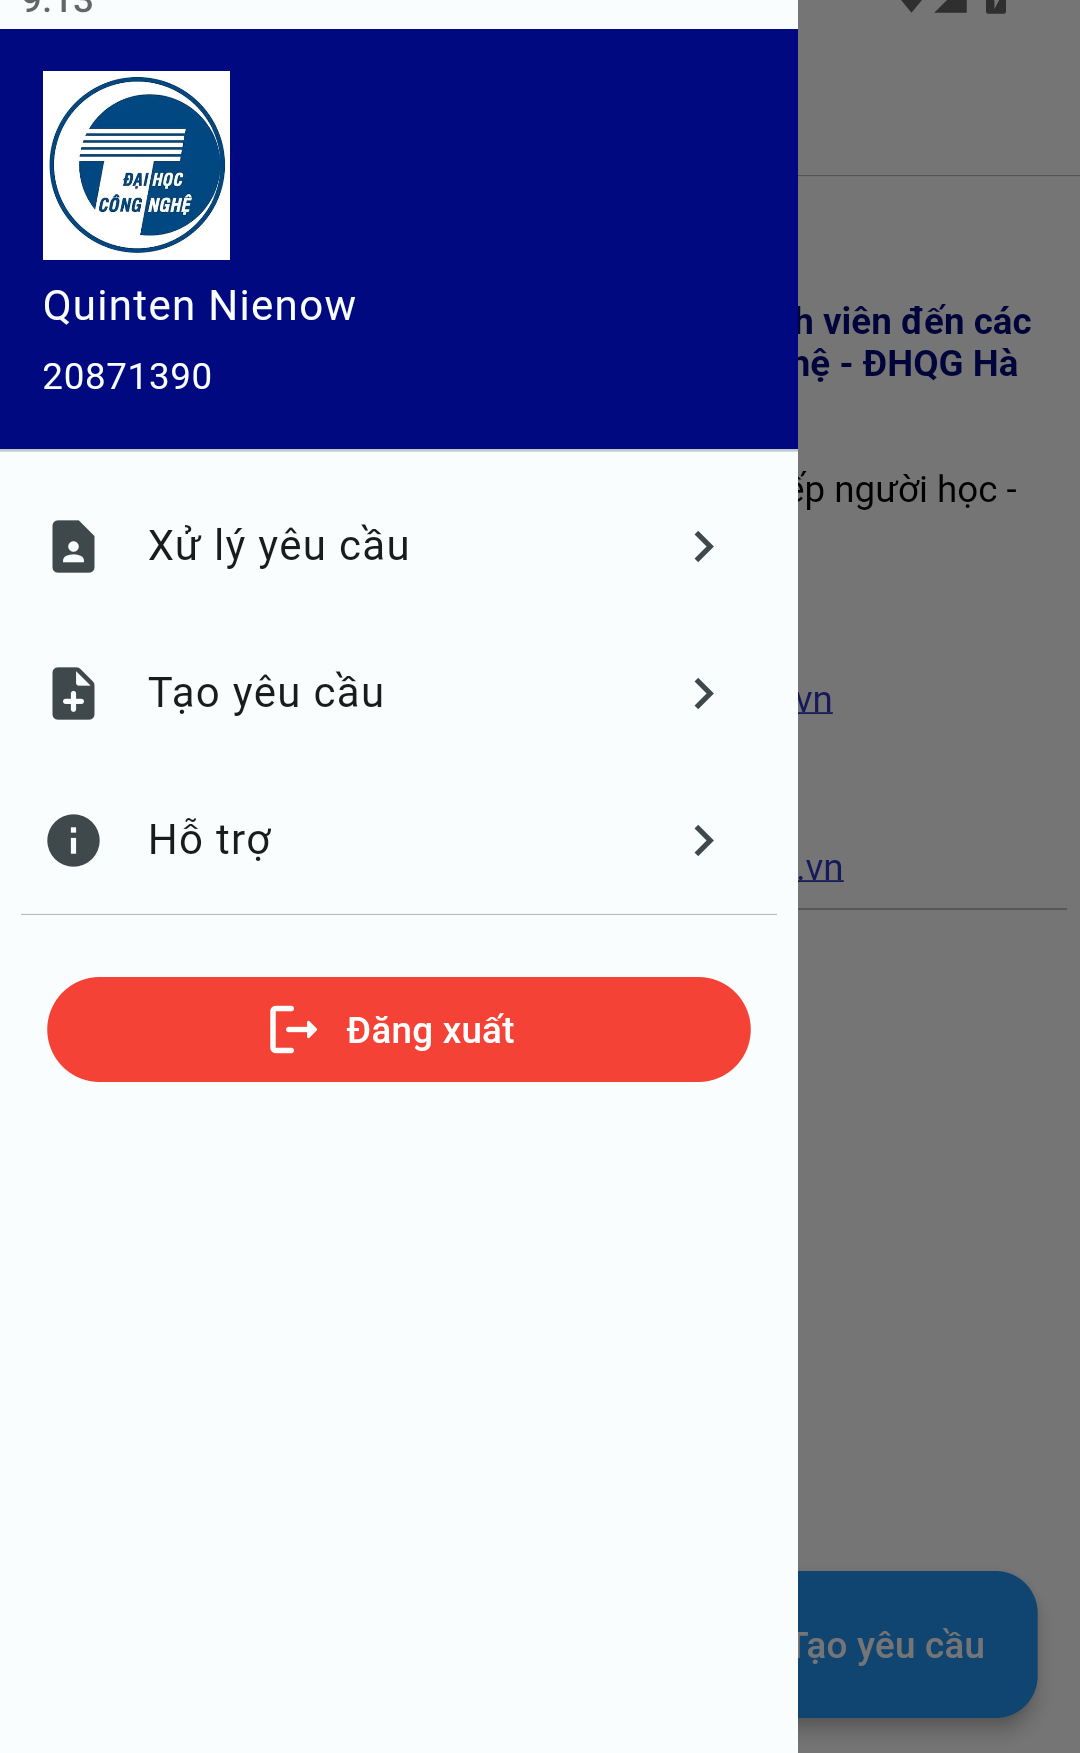
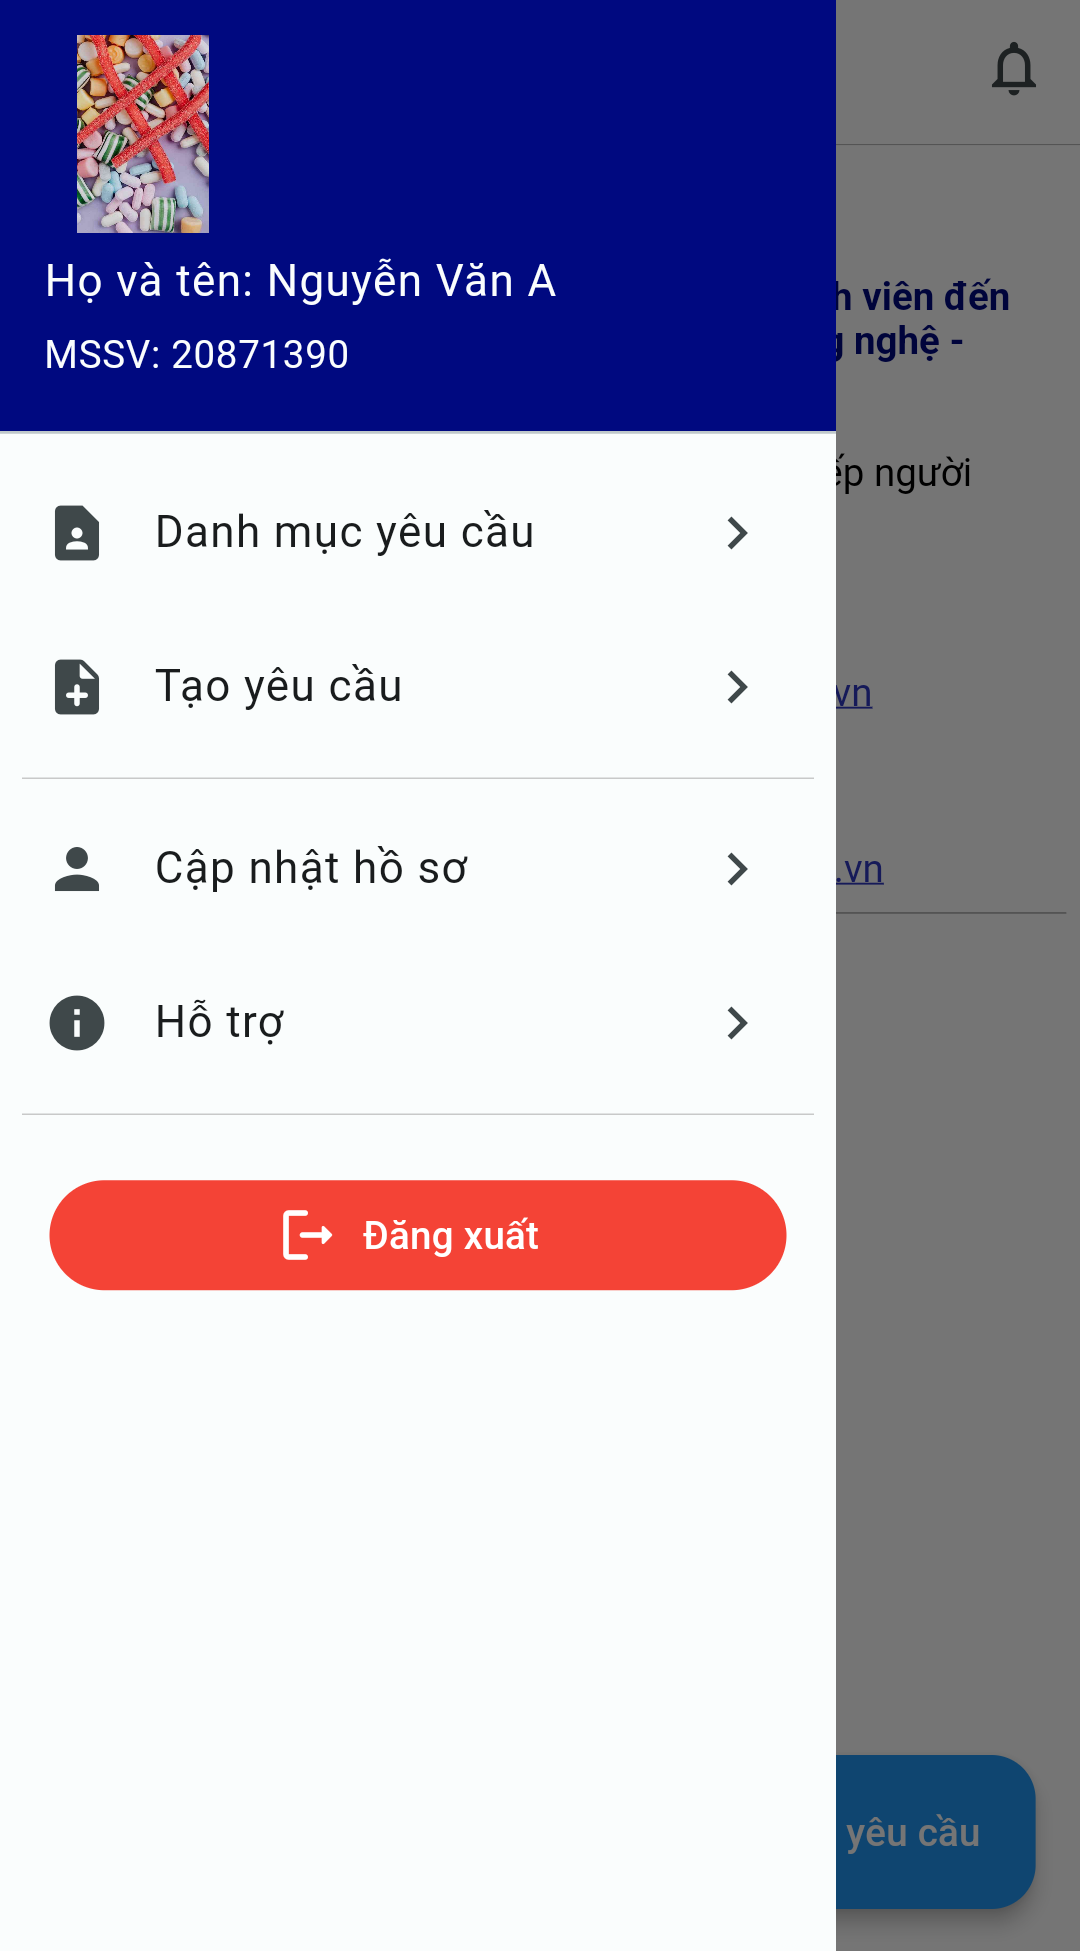
bỏ session_timeout, chỉnh sửa ảnh và chữ trong màn Hỗ trợ

diff --git a/lib/screens/help/help_screen.dart b/lib/screens/help/help_screen.dart
@@ -287,14 +287,14 @@ class HelpScreen extends StatelessWidget {
                     ),
                     children: [
                       TextSpan(
-                        text: "• Xử lý yêu cầu: ",
+                        text: "• Danh mục yêu cầu: ",
                         style: TextStyle(
                           fontStyle: FontStyle.italic,
                           fontWeight: FontWeight.bold
                         )
                       ),
                       TextSpan(
-                        text: "Mở trang \"Xử lý yêu cầu\"\n"
+                        text: "Mở trang \"Danh mục yêu cầu\"\n"
                       ),
                       TextSpan(
                         text: "• Tạo yêu cầu: ",
@@ -315,6 +315,16 @@ class HelpScreen extends StatelessWidget {
                       ),
                       TextSpan(
                         text: "Mở trang \"Hỗ trợ\"\n"
+                      ),
+                      TextSpan(
+                        text: "• Cập nhật hồ sơ: ",
+                        style: TextStyle(
+                          fontStyle: FontStyle.italic,
+                          fontWeight: FontWeight.bold
+                        )
+                      ),
+                      TextSpan(
+                        text: "Cập nhật hồ sơ sinh viên\n"
                       ),
                       TextSpan(
                         text: "• Đăng xuất: ",
@@ -459,7 +469,7 @@ class HelpScreen extends StatelessWidget {
                 )
               ),
               const SizedBox(height: 10,),
-              const Text("Sau khi bấm \"Lưu\", yêu cầu đã được gửi thành công. Sinh viên có thể kiểm tra trạng thái yêu cầu của mình gửi ở màn \"Xử lý yêu cầu\".")
+              const Text("Sau khi bấm \"Gửi yêu cầu\", và yêu cầu đã được gửi thành công. Sinh viên có thể kiểm tra trạng thái yêu cầu của mình gửi ở màn \"Danh mục yêu cầu\".")
             ],
           ),
           const Divider(thickness: 0.4,),
@@ -469,14 +479,14 @@ class HelpScreen extends StatelessWidget {
             initiallyExpanded: false,
             expandedCrossAxisAlignment: CrossAxisAlignment.stretch,
             title: const Text(
-              "Xử lý yêu cầu",
+              " Danh mục yêu cầu",
               style: TextStyle(
                 fontWeight: FontWeight.bold,
                 fontSize: 17.5
               ),
             ),
             children: [
-              const Text("Chức năng \"Xử lý yêu cầu\" trong \"Menu/Xử lý yêu cầu\" hỗ trợ sinh viên theo dõi trạng thái chi tiết của yêu cầu. Giao diện \"Xử lý yêu cầu\" như hình dưới đây:"),
+              const Text("Chức năng \"Danh mục yêu cầu\" trong \"Menu/Danh mục yêu cầu\" hỗ trợ sinh viên theo dõi trạng thái chi tiết của yêu cầu. Giao diện \"Danh mục yêu cầu\" như hình dưới đây:"),
               const SizedBox(height: 10,),
               Image(
                 image: const AssetImage('assets/help_page_images/7_manage_request.png'),
